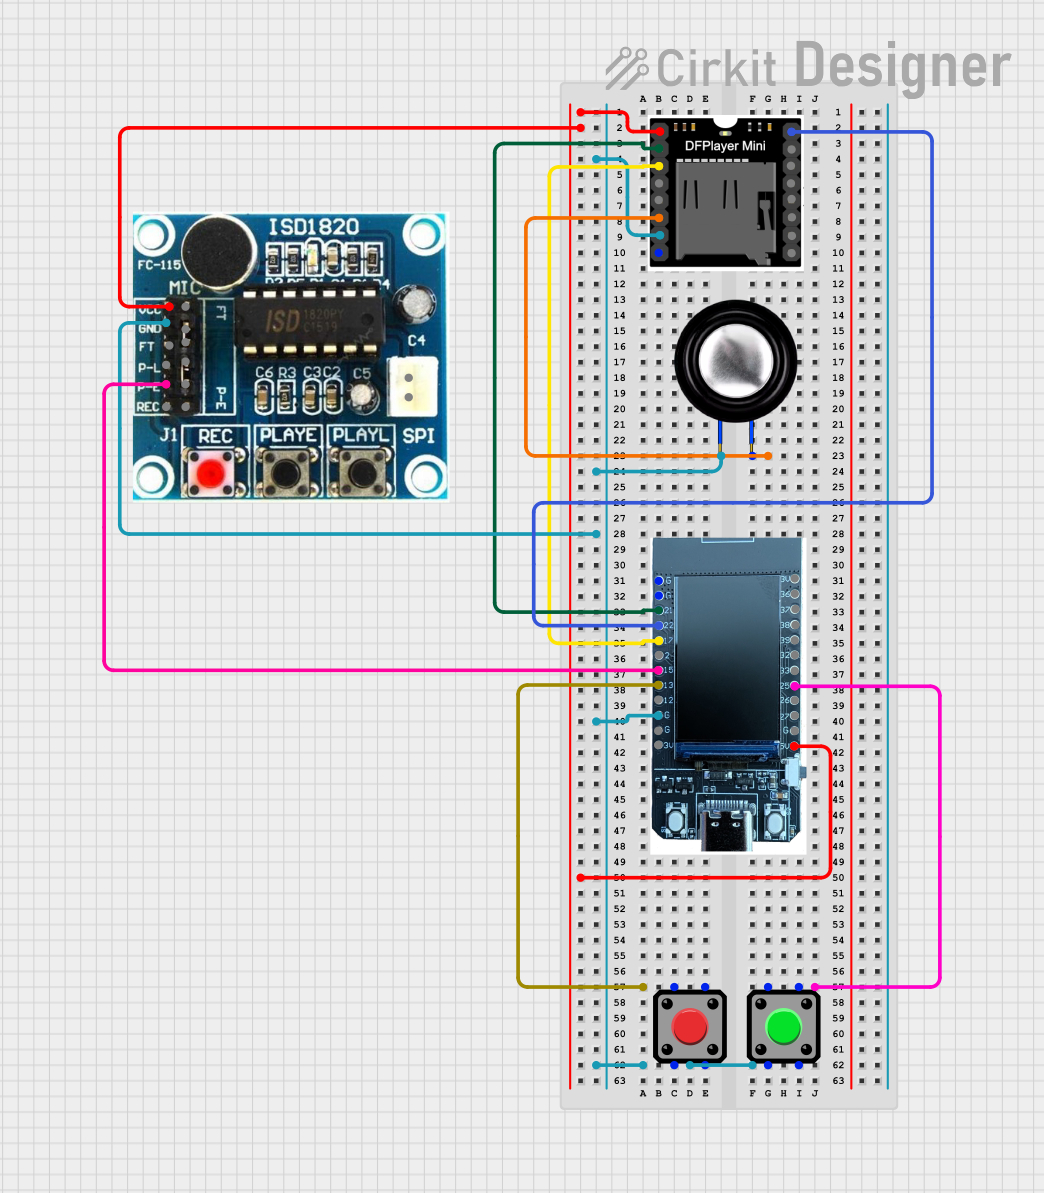
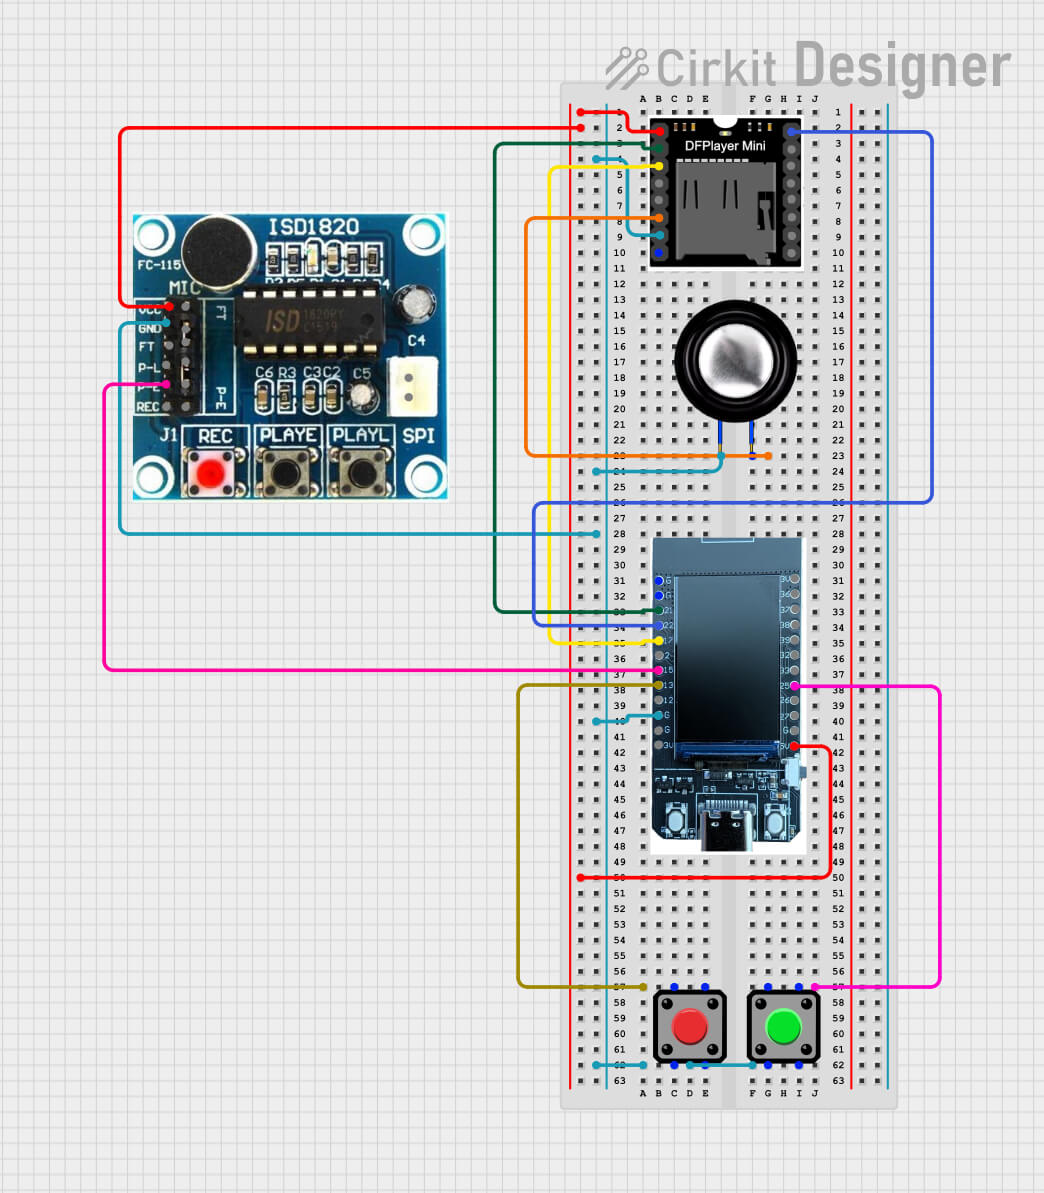
Add pong-board image to README and update sound module wiring section

Changed region(s): [[0.6743, 0.3722, 0.705, 0.4032], [0.613, 0.5272, 0.6437, 0.5583]]

diff --git a/README.md b/README.md
@@ -81,6 +81,10 @@ Before wiring anything, play the game to understand when events happen:
 
 ## Wiring Up Sound!
 
+<img src="https://github.com/impressto/tdisplay-pong/blob/master/pong-board.jpg" />
+
+
+
 Pick **one** sound module and follow its wiring guide below. Then set the matching option in `config.h`.
 
 ---
